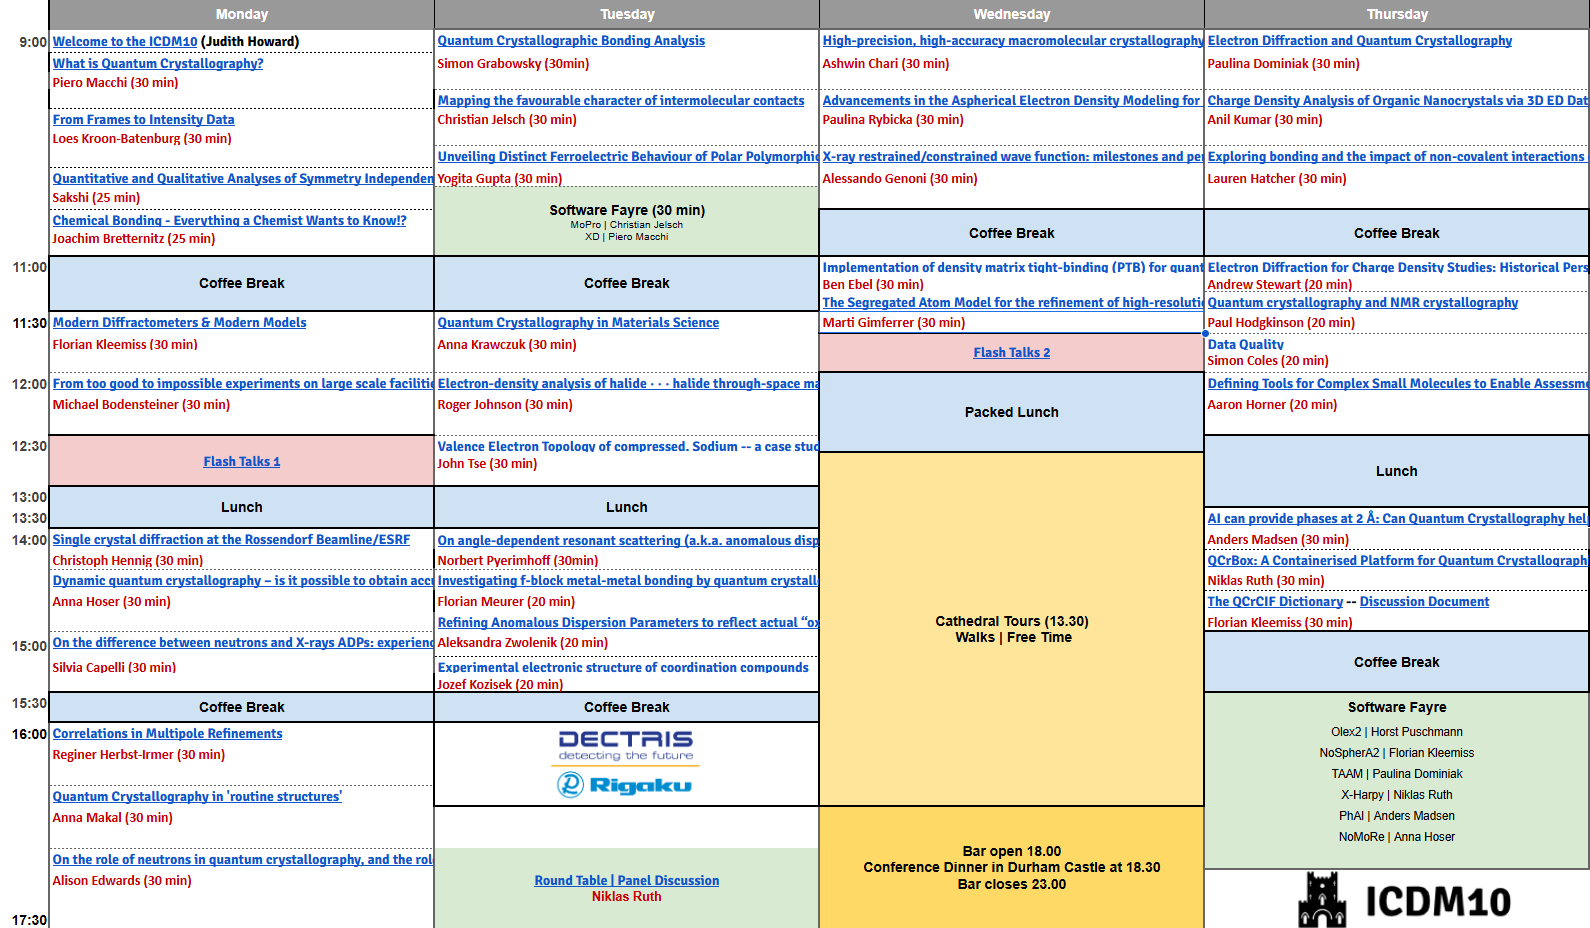
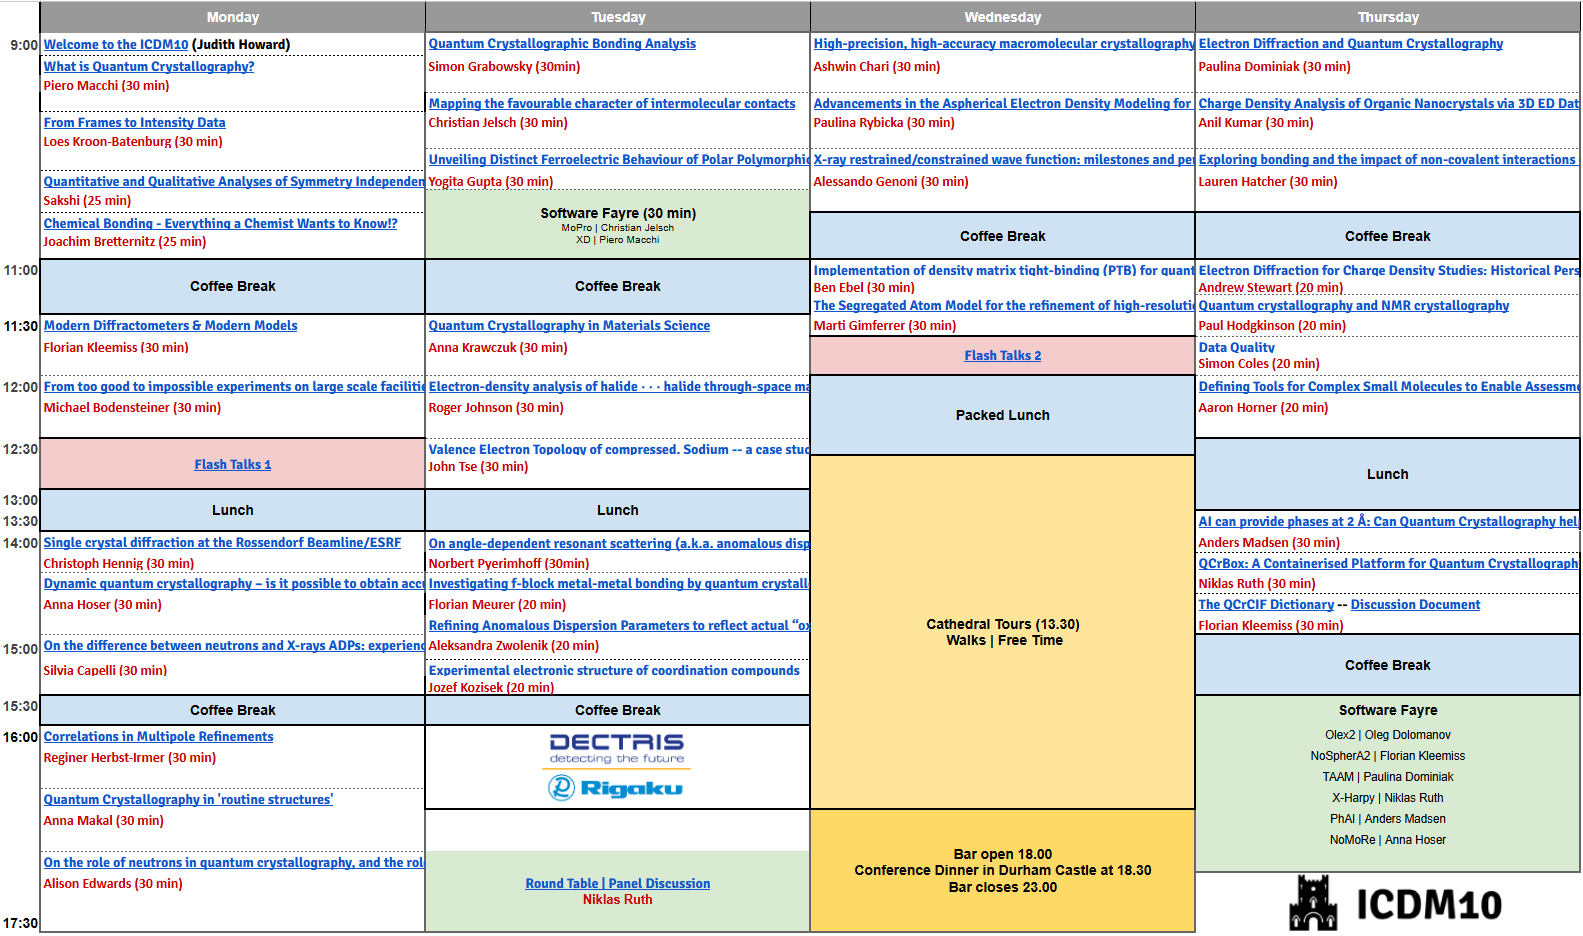
update software fayre

diff --git a/content/english/abstracts/comp-2.md b/content/english/abstracts/comp-2.md
@@ -1,0 +1,33 @@
+---
+title: "Software Fayre 2"
+author: ""
+meta_title: ""
+description: ""
+date: 2025-07-10
+categories: ["Session 14"]
+draft: false
+weight: 1000
+summary: Computer Fayre 2
+
+params:
+  tt: 2025-07-17T16:00:50Z
+---
+<p>
+
+### Olex2
+Oleg Dolomanov
+
+### NoSpherA2
+Florian Kleemiss
+
+## TAAM
+Paulina Dominiak
+
+## X-Harpy
+Niklas Ruth
+
+## PhAI
+Anders Madsen
+
+## NoMoRe
+Anna Hoser
